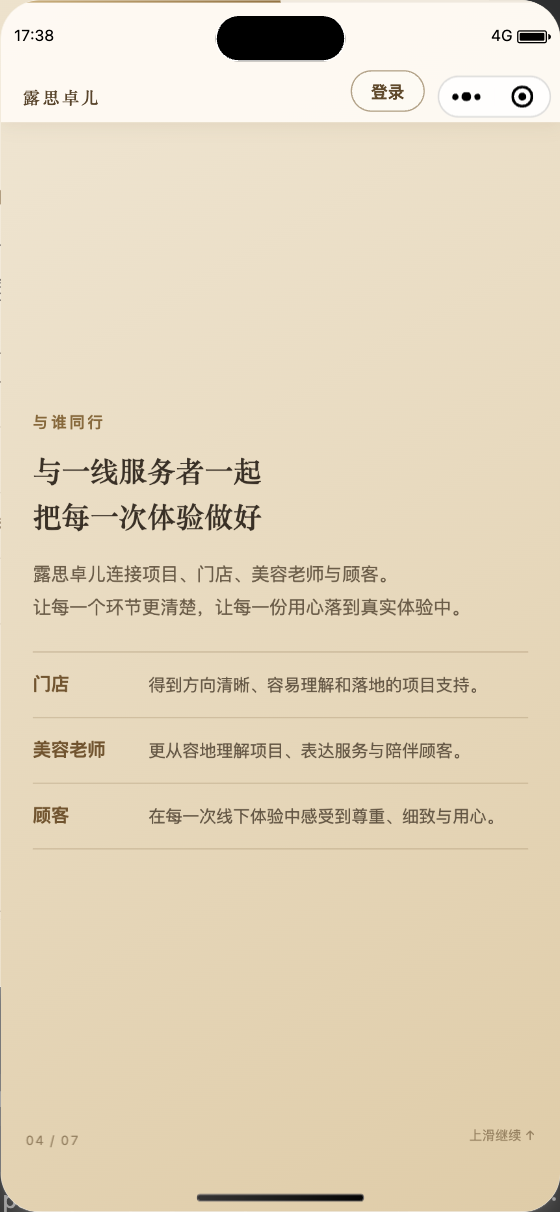
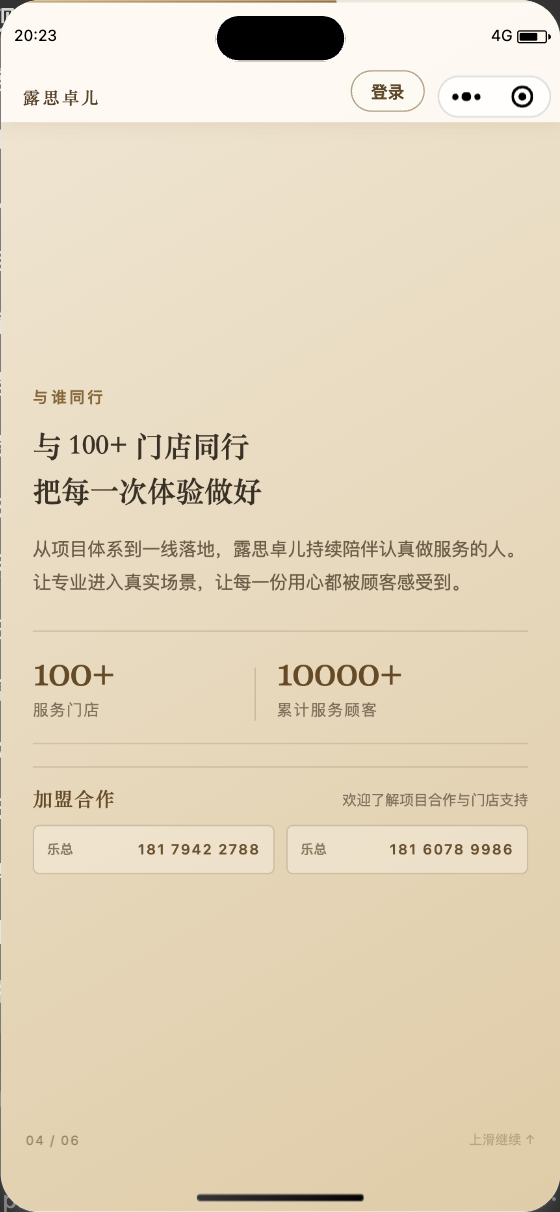
feat(miniprogram): refine company homepage interactions

diff --git a/tests/mini-program-company-intro-contract.test.js b/tests/mini-program-company-intro-contract.test.js
@@ -40,7 +40,8 @@ test("company introduction is a static public page focused on brand positioning"
     "public company content must not read business data or depend on a staff session");
   for (const phrase of [
     "广州露思卓儿", "科技有限公司", "生活美容领域", "我们是谁", "品牌理念",
-    "我们在做的事", "与谁同行", "品牌愿景", "把每一次体验做好"
+    "我们在做的事", "与谁同行", "品牌愿景", "把每一次体验做好",
+    "100+", "10000+", "服务门店", "累计服务顾客", "加盟合作"
   ]) assert.match(wxml, new RegExp(phrase));
   for (const project of ["海洋之蕴", "魔法柔肤", "露思康辰"]) assert.match(wxml, new RegExp(project));
   for (const phone of ["181 7942 2788", "181 6078 9986"]) assert.match(wxml, new RegExp(phone));
@@ -54,10 +55,17 @@ test("company introduction is a static public page focused on brand positioning"
   }
   assert.match(wxml, /class="company-topbar[^"]*"[\s\S]*class="topbar-login"[^>]*bindtap="openLogin"[\s\S]*>登录<\/button>/,
     "the separate staff login must be available from the upper-right company navigation");
+  assert.match(wxml, /class="hero-lead[^"]*"[\s\S]*class="hero-login[^"]*"[^>]*bindtap="openLogin"/,
+    "the opening page login must sit directly beneath the company introduction");
+  assert.match(wxml, /wx:if="\{\{currentSlide > 0\}\}" class="topbar-login"/,
+    "the top-right login must remain available after the opening page without crowding its logo composition");
   assert.match(wxml, /<swiper class="company-swiper" vertical="true"[\s\S]*bindchange="onSlideChange">/,
     "the company home must use reliable native vertical full-screen paging");
-  assert.equal((wxml.match(/<swiper-item>/g) || []).length, 7,
-    "each company chapter must occupy one of the seven complete vertical pages");
+  assert.equal((wxml.match(/<swiper-item>/g) || []).length, 6,
+    "each company chapter must occupy one of the six complete vertical pages");
+  assert.doesNotMatch(wxml, /class="company-slide contact-slide|>加盟咨询<\/text>/,
+    "the duplicated standalone contact page must stay retired after joining moves to the service-reach chapter");
+  assert.match(wxml, /\{\{slideNumbers\[currentSlide\]\}\} \/ 06/);
   assert.match(wxml, /class="value-flow"[\s\S]*class="value-row[^"]*"/,
     "brand values must read as one vertical narrative rather than a grid of cards");
   assert.doesNotMatch(wxml, /value-grid|value-card|approach-grid|focus-list|belief-card|vision-card/,
@@ -75,6 +83,8 @@ test("company introduction is a static public page focused on brand positioning"
     "the login control must be visible beside the native capsule without becoming a large primary action");
   assert.match(wxss, /\.hero-copy\s*\{[^}]*text-align:\s*center;/s,
     "the opening company statement must sit in the visual center instead of collecting at the bottom");
+  assert.match(wxss, /\.hero-login\s*\{[^}]*margin:\s*30rpx auto 0;[^}]*border-radius:\s*29rpx;/s,
+    "the opening login must remain a small centered action rather than a large primary panel");
   assert.match(wxml, /wx:if="\{\{currentSlide > 0\}\}" class="topbar-brand"/,
     "the first page must not repeat the brand name above the full company title");
   assert.match(wxml, /class="hero-title[^\"]*">广州露思卓儿科技有限公司<\/text>/);
@@ -96,6 +106,10 @@ test("company introduction is a static public page focused on brand positioning"
     "each settled page must animate headings, copy, and detail rows in a deliberate sequence");
   assert.match(wxss, /@media \(min-width: 700px\) \{/,
     "company introduction must cap typography and layout on tablets");
+  assert.match(wxml, /class="service-reach[^"]*"[\s\S]*100\+[\s\S]*10000\+[\s\S]*class="partnership-block[^"]*"[\s\S]*181 7942 2788[\s\S]*181 6078 9986/,
+    "confirmed service reach and both partnership contacts must form one continuous company chapter");
+  assert.doesNotMatch(js, /showActionSheet|openPartnership|joinOpen/,
+    "partnership contacts must be part of the page instead of a simulated popup or expandable overlay");
 });
 
 test("vertical chapter paging produces bounded active state and exact progress", () => {
@@ -106,10 +120,10 @@ test("vertical chapter paging produces bounded active state and exact progress",
   };
   definition.onSlideChange.call(instance, { detail: { current: 3 } });
   assert.deepEqual({ currentSlide: instance.data.currentSlide, reading: instance.data.reading, scrolled: instance.data.scrolled },
-    { currentSlide: 3, reading: 50, scrolled: true });
+    { currentSlide: 3, reading: 60, scrolled: true });
   definition.onSlideChange.call(instance, { detail: { current: 99 } });
   assert.deepEqual({ currentSlide: instance.data.currentSlide, reading: instance.data.reading },
-    { currentSlide: 6, reading: 100 });
+    { currentSlide: 5, reading: 100 });
 });
 
 test("company home opens the separate login and only allow-listed project introductions", () => {
@@ -129,6 +143,11 @@ test("company home opens the separate login and only allow-listed project introd
   }
   assert.equal(page.navigations.length, 4);
 
+  assert.deepEqual(page.phoneCalls, []);
+});
+
+test("inline partnership contacts only call the two approved numbers", () => {
+  const page = loadCompanyPage();
   for (const phone of ["18179422788", "18160789986"]) {
     page.definition.callPhone.call({}, { currentTarget: { dataset: { phone } } });
   }

diff --git a/miniprogram-app/miniprogram/pages/company-intro/index.js b/miniprogram-app/miniprogram/pages/company-intro/index.js
@@ -1,6 +1,20 @@
 const PROJECT_KEYS = Object.freeze(["ocean", "skin", "warmth"]);
 const CONTACT_PHONES = Object.freeze(["18179422788", "18160789986"]);
-const SLIDE_NUMBERS = Object.freeze(["01", "02", "03", "04", "05", "06", "07"]);
+const SLIDE_NUMBERS = Object.freeze(["01", "02", "03", "04", "05", "06"]);
+
+function dialContact(page, phoneNumber) {
+  if (!page || page._calling || !CONTACT_PHONES.includes(phoneNumber)) return;
+  page._calling = true;
+  wx.makePhoneCall({
+    phoneNumber,
+    fail: error => {
+      if (!String(error && error.errMsg || "").includes("cancel")) {
+        wx.showToast({ title: "暂时无法拨打，请稍后重试", icon: "none" });
+      }
+    },
+    complete: () => { page._calling = false; }
+  });
+}
 
 Page({
   data: {
@@ -56,19 +70,8 @@ Page({
     });
   },
   callPhone(event) {
-    if (this._calling) return;
     const phoneNumber = event && event.currentTarget && event.currentTarget.dataset.phone;
-    if (!CONTACT_PHONES.includes(phoneNumber)) return;
-    this._calling = true;
-    wx.makePhoneCall({
-      phoneNumber,
-      fail: error => {
-        if (!String(error && error.errMsg || "").includes("cancel")) {
-          wx.showToast({ title: "暂时无法拨打，请稍后重试", icon: "none" });
-        }
-      },
-      complete: () => { this._calling = false; }
-    });
+    dialContact(this, phoneNumber);
   },
   openProjectIntro(event) {
     if (this._navigating) return;

diff --git a/tests/mini-program-mobile-layout-contract.test.js b/tests/mini-program-mobile-layout-contract.test.js
@@ -45,8 +45,10 @@ test("mini-program login is concise and keeps phone authorization and password e
     "the exact four-character wordmark must remain native WXML text");
   assert.match(wxml, /class="login-card">[\s\S]*id="login-phone"[\s\S]*id="login-password"[\s\S]*id="login-submit"[\s\S]*id="login-phone-quick"[\s\S]*id="login-message"/,
     "all login controls and feedback must stay inside the bounded form panel");
-  assert.match(wxml, /class="login-home" bindtap="returnToCompany"[^>]*>‹ 返回公司主页<\/button>/,
+  assert.match(wxml, /class="login-home"[^>]*hover-class="login-home-hover"[^>]*catchtap="returnToCompany"[^>]*>‹ 返回公司主页<\/button>/,
     "the separate staff login page must return to the public company home");
+  assert.match(wxss, /\.login-home\s*\{[^}]*position:\s*relative;[^}]*z-index:\s*20;[^}]*min-height:\s*76rpx;[^}]*pointer-events:\s*auto;/s,
+    "the visible login return pill must own a foreground touch target");
   assert.doesNotMatch(wxml, /company-entry|project-entries|login-disclosure/,
     "the staff login page must not duplicate the public company or project home");
   assert.doesNotMatch(wxml, /brand-rule|login-divider|登录系统/,

diff --git a/tests/mini-program-project-intro-contract.test.js b/tests/mini-program-project-intro-contract.test.js
@@ -144,6 +144,10 @@ test("project footer keeps both destinations in one compact row without an exper
   assert.match(wxss, /\.footer-actions\s*\{[^}]*display:\s*grid;[^}]*grid-template-columns:/s);
   assert.match(wxss, /\.intro-footer \.next-project\s*\{[^}]*min-height:\s*76px;/s);
   assert.match(wxss, /\.intro-footer \.footer-back\s*\{[^}]*min-height:\s*76px;/s);
+  assert.match(wxss, /\.intro-footer\s*\{[^}]*position:\s*relative;[^}]*z-index:\s*30;/s,
+    "the real footer actions must sit above the sticky story layer for physical pointer input");
+  assert.match(wxml, /class="next-project"[^>]*hover-class="footer-action-hover"[^>]*bindtap="openNext"/);
+  assert.match(wxml, /class="footer-back"[^>]*hover-class="footer-action-hover"[^>]*bindtap="returnToCompany"/);
   assert.doesNotMatch(wxml, /继续探索露思卓儿/,
     "the footer must not add a third visual layer above the two real destinations");
   assert.doesNotMatch(wxml, /体验须知|intro-notice|notice-toggle/);

diff --git a/PROJECT_CONTEXT.md b/PROJECT_CONTEXT.md
@@ -471,13 +471,13 @@
 ## 22. 响应式 UI 最终要求
 
 - 2026-09-07 用户新增登录前项目介绍要求：沿用当前配色，在登录页提供三个紧凑项目入口，点开后可上下滚动阅读官网式介绍，提炼资料精华、重新绘制图解并加入随滚动变化的动画。早期独立交互提案保存在 `docs/design/project-intro-v1/`；用户随后明确要在微信开发者工具中看到预览，现已用原生 WXML／WXSS 接入 `pages/project-intro` 独立分包，不能继续将浏览器提案当作原生预览交付。两份 PDF 分别对应“露思康辰—E脉通”和“魔法柔肤—13D柔肤仪”；随后补充的 `Copy of 海洋之蕴.pptx` 对应“海洋之蕴—15D精雕仪”，第三项目待补充占位已退役。公开介绍只使用静态可公开内容，不能读取员工或客户业务数据、要求手机号／人脸授权，或放宽后台页面鉴权。保留既有真实登录与返回能力；登录页隐藏后不得被延迟完成的启动会话校验抢回首页，返回登录仍需遵循原有会话校验。图解随滚动展开，章节可直接点击；短屏使用普通文档流，减少动态效果偏好下图解静态展示，也提供手动关闭动效，没有强制观看动画或等待页。项目间切换替换当前介绍页，避免路由栈不断增长。体验须知按用户后续反馈收在页尾默认折叠入口，点击再展开；正文不堆叠“资料中／以说明书为准”等说明书式文字。必要禁忌和实际注意事项保留在须知内，不转成安全保证。随后用户要求拿掉“本页为概念介绍／图示不代表效果／不作效果保证”等类似字句，正文、图解下方和须知末尾统一删除这类泛化声明，不再重复添加。未核实的治疗功效、安全保证、认证／专利、价格、具体疗程及前后对比不直接搬入对客文案，艺术图不得冒充实际设备或临床效果。资料映射与验收见 `docs/design/project-intro-native/`。此前仅做原生预览的交付范围由用户随后“必须发布、预览版与体验版轮流试”的决定接续；开发版上传、体验版更新、审核与正式发布仍分别核实和记录。
-- 2026-09-15 用户最终决定把小程序启动页直接设为公开公司主页：打开小程序即进入 `pages/company-intro/index`，无需先点击公司介绍卡片；页面采用可连续上下滑动的长页叙事，顺序固定为“我们是谁 → 我们在做的事 → 与谁同行 → 品牌理念 → 品牌愿景 → 加盟咨询 → 项目延伸”。整体使用暖象牙白与浅香槟金的连续渐变，不以大面积深咖色制造突兀分区；重点标题主动安排均衡分行，避免行末只剩一两个字。首屏公司名称与主张必须落在视觉中心，不得沉到页面底部留下失衡的大段上方空白。全屏首屏、阅读进度、首屏轻量视差、背景呼吸、分段渐显及组内错峰入场共同形成克制但可感知的动态体验，不得退回逐个格子或卡片拼接的首页。主页重点介绍广州露思卓儿科技有限公司、生活美容定位、品牌理念、一线服务对象与品牌愿景，三个项目只作为页尾延伸入口。右上角在微信原生胶囊左侧保留一个清晰可见但不抢主视觉的中小型“登录”按钮，点击后进入独立 `pages/login/index` 表单。加盟咨询公开联系人均为乐总，电话为 `18179422788` 和 `18160789986`，仅允许这两个固定号码通过用户点击唤起系统拨号确认；旧的“公司介绍主卡＋三个项目卡＋页内折叠登录”方案已经退役。公司宣传正文不得解释“内部数据协同”“不提供在线交易”等系统边界，也不得引用无法核实的公众号旧宣传、医美转型口号、医疗级表述、规模／排名／认证或保证性功效。公开公司页在技术上仍保持静态，不读取业务数据、不依赖员工会话，也不改变任何后台鉴权。2026-09-15 补充的 `海洋之蕴.pptx`、`13D柔肤仪.pdf` 和 `露思康辰～E脉通.pdf` 仅用于核对页尾项目定位与既有项目介绍；资料中的治疗、疼痛、疾病、抗衰、专利认证、固定效果、价格和保证性表述不得搬入公开文案。公司主页进入主包后，为继续保留微信 2MB 主包限制下至少 200KB 的源码余量，登录后才使用的 `store-detail` 和 `teacher-detail` 调整为普通分包；路由、会话、全局样式和权限契约不变。公开资料核对和页面验收边界见 `docs/design/company-intro-native/validation.md`。
-- 2026-09-15 用户随后把上述公司连续长页改为最终的原生竖向全屏分页：每次上滑完整切换一页，停稳时只显示当前页，不允许上下两页跨页露出；共七页，依次为首屏、我们是谁、我们在做的事、与谁同行、品牌理念／品牌愿景、加盟咨询、项目延伸。顶部阅读进度、右侧页码和圆点随页更新，每页标题、正文和细项在切换完成后错峰上移渐显；减少动态效果偏好下直接显示全部静态内容。第一页复用现有 `lusizhuoer-login-bg-v4.jpg` 作为全屏背景，金色水滴／侧脸 Logo 必须完整可见并与登录页保持同一品牌版本，退役抽象圆环；公司名称和品牌主张位于视觉中心，先前“公司主页”四字装饰标签已经删除。右上角登录、两组加盟电话、公开文案边界、项目入口及内部权限规则不变。本条取代上一条中的“连续长页任意停留、首屏视差、背景呼吸和公司主页标签”描述。
+- 2026-09-15 用户最终决定把小程序启动页直接设为公开公司主页：打开小程序即进入 `pages/company-intro/index`，无需先点击公司介绍卡片；页面采用六个竖向全屏分页，顺序固定为“首屏 → 我们是谁 → 我们在做的事 → 与谁同行 → 品牌理念／品牌愿景 → 项目延伸”。整体使用暖象牙白与浅香槟金的连续渐变，不以大面积深咖色制造突兀分区；重点标题主动安排均衡分行，避免行末只剩一两个字。首屏公司名称与主张必须落在视觉中心，不得沉到页面底部留下失衡的大段上方空白。全屏首屏、阅读进度、首屏轻量视差、背景呼吸、分段渐显及组内错峰入场共同形成克制但可感知的动态体验，不得退回逐个格子或卡片拼接的首页。主页重点介绍广州露思卓儿科技有限公司、生活美容定位、品牌理念、一线服务对象与品牌愿景，三个项目只作为页尾延伸入口。首屏“登录”改为公司介绍正文下方居中的小型描边按钮，不再与微信胶囊挤在右上角；滑到第二页以后，胶囊左侧继续显示中小型登录入口，二者均进入独立 `pages/login/index` 表单。登录页“返回公司主页”必须使用独立前景触控层和完整胶囊点击区，不能被背景或表单层拦截。用户确认公司已服务 `100+` 门店、累计服务 `10000+` 顾客，该规模只在“与谁同行”页作克制的事实展示；“加盟合作”说明与两个加盟联系方式直接合并在该页，模拟电话弹窗、展开收起层和额外跳页均已退役。原独立“加盟咨询”第六页因与这里重复而退役，项目延伸顺延为第六页。加盟咨询公开联系人均为乐总，电话为 `18179422788` 和 `18160789986`，仅允许这两个固定号码通过用户点击唤起系统拨号确认；旧的“公司介绍主卡＋三个项目卡＋页内折叠登录”方案已经退役。公司宣传正文不得解释“内部数据协同”“不提供在线交易”等系统边界，也不得引用无法核实的公众号旧宣传、医美转型口号、医疗级表述、其他规模／排名／认证或保证性功效。公开公司页在技术上仍保持静态，不读取业务数据、不依赖员工会话，也不改变任何后台鉴权。2026-09-15 补充的 `海洋之蕴.pptx`、`13D柔肤仪.pdf` 和 `露思康辰～E脉通.pdf` 仅用于核对页尾项目定位与既有项目介绍；资料中的治疗、疼痛、疾病、抗衰、专利认证、固定效果、价格和保证性表述不得搬入公开文案。公司主页进入主包后，为继续保留微信 2MB 主包限制下至少 200KB 的源码余量，登录后才使用的 `store-detail` 和 `teacher-detail` 调整为普通分包；路由、会话、全局样式和权限契约不变。公开资料核对和页面验收边界见 `docs/design/company-intro-native/validation.md`。
+- 2026-09-15 历史全屏分页方案（已由上一条最新六页决定取代）：该方案把连续长页改为原生竖向全屏分页，要求每次上滑完整切换一页、停稳时不跨页露出，并使用顶部阅读进度、分页文字错峰动画和现有 `lusizhuoer-login-bg-v4.jpg` 全屏背景；金色水滴／侧脸 Logo、视觉居中的公司名称与品牌主张、删除“公司主页”装饰标签等视觉决定继续有效。该方案原定的七页结构、独立“加盟咨询”页、右侧页码／圆点和右上角始终显示登录均已退役，现以六页结构、首屏正文下方登录、第二页起右上登录及底部页码为准。
 - 2026-09-15 首屏视觉复核进一步确定：第一页不得在左上角重复“露思卓儿”，公司全称与“让专业有温度，让美好被认真对待”分别保持一行并在 Logo 下方形成单一视觉轴；页码固定在底部左侧，上滑提示固定在底部右侧，原先右侧页码／圆点方案退役。第二页起左上角才显示轻量品牌名，右上角登录始终保留。本条取代上一条中的“右侧页码和圆点”描述。
 - 2026-09-07 用户补充：项目介绍不使用英文缩写或英文装饰标题。海洋之蕴用“超声／射频／生物电”作为紧凑导航，正文写出“微聚焦超声／聚焦射频／生物电射频”；三个项目章节标题、首屏副标题、正文和下一项目入口均使用中文。设备型号的英文字母不自行扩写成未经资料证实的含义，公开副标题使用“精雕仪／柔肤仪／电磁热护理”等中文描述；原始型号与资料对应关系只在内部溯源文档保留，不更改三个业务项目名称。旧的英文缩写与英文装饰标签展示已退役。用户随后要求内容更完整：补充项目特点、三段护理／技术说明及具体体验关注点，以现有资料为依据，不只延长品牌标语；页尾“返回登录”增大至清晰的全宽按钮，字号 17px、字重 600、最小高度 52px。补充后的中文需重新检查窄屏换行与章节导航边界。用户强调文案合理、读起来顺畅：交付前逐段通读，使用自然中文解释项目，去掉重复空泛措辞与不合语义的比喻，不能只翻译缩写或机械加长文字。
 - 2026-09-07 用户指出介绍文案像在教育顾客：三个项目的正文改用产品介绍口吻，讲清项目定位、资料中有依据的技术构成、护理重点与体验特点。旧的“了解需求／确认方案／持续沟通”、反复要求顾客说明情况或反馈感受的服务指导叙事已退役，不得再用提醒填充介绍篇幅。海洋之蕴突出分层技术与轮廓／肤质侧重；魔法柔肤突出纳秒光、多种护理模式与清促建理念；露思康辰突出电磁热、可调温手柄与六项体验细节。实际必要注意事项继续放在页尾默认折叠的体验须知中。保留完整自然中文，不将资料里的治疗、安全、认证、效果比例或固定疗程承诺写成已核实产品优势。
 - 2026-09-15 用户进一步明确三个公开项目的核心定位并要求统一为合规的生活美容表达。三个首屏分类固定以“生活美容”开头，并直接说明差异：海洋之蕴以轮廓为主线，兼顾肤质与“肤龄观感”；魔法柔肤以肤质、肤色及肌肤外观状态为主线；露思康辰以温度管理和身体舒适体验为主线。公开文案不得把“抗衰／逆龄”“解决皮肤问题”“解决健康／疼痛痛症”作为效果承诺，不得宣称疾病治疗、止痛、免疫、经络或保证性结果。“体温管理”容易被理解为对核心体温或健康功能的干预，公开名称统一收敛为“温度管理”；露思康辰的疼痛、肿胀、麻木等内容只用于折叠体验须知中的就医提示，明确项目不能替代诊疗。原资料中的技术名称只用于客观说明护理组成，不由此推导医学作用。此规则取代此前偏品牌口号、需要读完整页才能分辨项目核心优势的写法；不改变三个项目名称、公开路由、图片、动效、登录或后台权限。
-- 2026-09-15 用户随后要求彻底移除三个公开项目页尾的“体验须知”入口及其折叠内容；疼痛、肿胀、麻木、禁忌、就医提示等文字不再出现在公开项目页面或公开项目数据中，项目正文仍不得因此增加治疗、安全或保证性承诺。页尾只保留“下一个项目”和“返回公司主页”两个真实跳转，并合并为同一条横向轻量导航，使用共同上下分隔线和紧凑等高按钮；“继续探索露思卓儿”页尾装饰标题、大号返回卡与第三层折叠模块全部退役，末段正文和导航之间的空白同步收紧。本条取代第 473、478、479 条中保留折叠体验须知和全宽大号返回按钮的描述。
+- 2026-09-15 用户随后要求彻底移除三个公开项目页尾的“体验须知”入口及其折叠内容；疼痛、肿胀、麻木、禁忌、就医提示等文字不再出现在公开项目页面或公开项目数据中，项目正文仍不得因此增加治疗、安全或保证性承诺。页尾只保留“下一个项目”和“返回公司主页”两个真实跳转，并合并为同一条横向轻量导航，使用共同上下分隔线和紧凑等高按钮；页尾及两个按钮必须显式位于粘性章节动画层之上，不能出现看得到却被透明层拦截触控的状态。“继续探索露思卓儿”页尾装饰标题、大号返回卡与第三层折叠模块全部退役，末段正文和导航之间的空白同步收紧。本条取代第 473、478、479 条中保留折叠体验须知和全宽大号返回按钮的描述。
 - 当前已上传版本的小程序登录页不显示人物照、联合人物图或“海洋之韵”文字。此前“禁止额外宣传文案”的一概限制由上述 2026-09-07 项目介绍决定取代；原登录结构现由上述原生项目介绍入口方案接续；最后确认上传的旧开发版状态单独记录。背景保留露思卓儿金色水滴／侧脸 Logo 视觉语言的暖象牙白、浅香槟金竖屏品牌图，继续使用清晰可辨的标志轮廓、香槟金色和边缘流动弧线，不嵌入人物与生成文字；精确品牌名始终由 WXML 原生渲染，整体颜色不能压得过深。2026-09-05 用户确认保留当前配色并美化实际小程序：登录采用中等圆角的暖白表单面板，品牌与简洁的“欢迎回来”提示左对齐，输入框、主登录及微信手机号次按钮全宽等高、左右对齐，弱化边框与阴影并提高标签、输入和按钮字号。旧的顶部夸张弧形框、品牌强制居中和窄胶囊按钮已经退役。象牙白、香槟金、深咖色值保持不变，不另换蓝色或绿色品牌主题。同日用户反馈背景像素模糊，允许在原配色和可辨认的水滴／侧脸标志基础上精修背景：现采用 v4 图，减少细碎金丝与模糊高光，保留少量清晰的边缘曲线和中心留白；旧的“原背景文件不得替换”约定已退役。生成图实际为 852 × 1846 像素，不将纹理精简宣传为分辨率提升。
 - 同日用户追加美容品牌动效要求：登录品牌区使用现有背景内的水滴／侧脸标志，与原生“露思卓儿”文字并列；通过独立图片视窗复用当前 v4 背景内的标志，不新增不同造型的 Logo。用户随后明确反馈旧动画效果差，因此旧的背景缩放、扫光、圆框亮边和表单逐项淡入、约 3.7 秒收尾的设计已退役。当前使用一次性品牌揭示：两个等尺寸反向移动的裁切视窗从下向上露出标志，使原图像素停在原位；180 毫秒后品牌文字从固定文字视窗底部升起，整段约 1.14 秒结束。背景、卡片、提示、输入框和两种登录按钮始终保持静止与完整可见，不循环、不加全屏遮挡或等待页、不延迟会话检查与登录操作。只使用 WXSS 位移动画，终态恢复 `transform: none`；减少动态效果偏好下直接显示静态终态。不引入模糊滤镜、视频、第三方动效依赖或 JavaScript 动画计时器，颜色和既有登录逻辑保持不变。
 - 2026-09-08 按平台审核修改指引，手机号授权入口的对客名称固定为“手机号快捷登录”；登录页及该授权链路的加载、取消、权限和失败提示均不得出现“微信”字样、微信官方 Logo 或其他容易被理解为腾讯官方入口的元素。此前要求保留“微信手机号登录”原文的规则已退役。该按钮仍作为主登录按钮正下方的完整圆角次按钮，文字必须在按钮内横向、纵向严格居中，不加入装饰分隔线；平台规定的 `open-type="getPhoneNumber"` 能力、认证 SDK、UID 核对、服务端权限回读及账号唯一性规则保持不变。密码显隐仍使用垂直居中的眼睛图标，“修改密码”仍位于密码输入框下方右侧；小程序改密继续复用网页版短信验证、`shouldCreateUser: false`、60 秒持久化防重发、严格认证响应校验、当前 UID `changeOwnPassword` 和退出临时会话规则。改密页“保存新密码”文字必须双向居中。

diff --git a/docs/design/company-intro-native/validation.md b/docs/design/company-intro-native/validation.md
@@ -5,11 +5,12 @@
 ## 需求落点
 
 - 小程序首个页面为原生 `pages/company-intro/index`；打开小程序直接看到公司主页，不再经过公司介绍卡片。
-- 公司主页使用原生竖向全屏分页；每次上滑完整进入下一页，停稳时只显示当前一页，不让上下两页跨页露出。
-- 七页顺序为“首屏 → 我们是谁 → 我们在做的事 → 与谁同行 → 品牌理念／品牌愿景 → 加盟咨询 → 项目延伸”，让公司身份、行动、服务对象、愿景和合作入口逐层展开。
-- 第一页将现有 v4 金色水滴／侧脸 LOGO 原图作为全屏背景，公司全称与品牌主张分别保持一行并沿同一中轴排布；首屏不再重复左上角品牌名，抽象圆环和“公司主页”四字装饰标签已经移除。
+- 公司主页使用六个原生竖向全屏分页；每次上滑完整进入下一页，停稳时只显示当前一页，不让上下两页跨页露出。
+- 六页顺序为“首屏 → 我们是谁 → 我们在做的事 → 与谁同行 → 品牌理念／品牌愿景 → 项目延伸”，让公司身份、行动、服务规模、愿景和项目入口逐层展开。“与谁同行”使用用户确认的 `100+` 服务门店和 `10000+` 累计服务顾客，不增加排名、行业领先等推导。
+- 第一页将现有 v4 金色水滴／侧脸 LOGO 原图作为全屏背景，公司全称与品牌主张分别保持一行并沿同一中轴排布；首屏不再重复左上角品牌名，抽象圆环和“公司主页”四字装饰标签已经移除。首屏登录放在公司介绍文字下方，使用居中小型描边按钮，不与右上微信胶囊拥挤。
 - 页面使用同色系连续渐变和顶部阅读进度；页码固定在底部左侧，上滑提示固定在底部右侧，不再用右侧圆点切断画面。每页停稳后，标题、正文和细项依次上移渐显；降低动态效果偏好下直接显示静态完整内容。
-- 右上角“登录”进入独立 `pages/login/index`；登录页可返回公司主页，并完整保留密码登录、手机号快捷登录和修改密码。
+- 第二页起，右上角“登录”继续进入独立 `pages/login/index`；登录页可返回公司主页，并完整保留密码登录、手机号快捷登录和修改密码。
+- “加盟合作”说明和两个乐总电话直接合并在“与谁同行”页，不使用模拟电话弹窗、展开收起层或额外跳页；原独立加盟咨询页因与这里重复已经删除，项目延伸顺延为第六页。
 - 海洋之蕴、魔法柔肤、露思康辰只在公司主页页尾作为延伸入口，不替代公司介绍主体。
 - 旧的“公司介绍主卡＋三个项目卡＋页内折叠内部登录”方案已经退役。
 - 本轮只修改微信小程序和规则／验证文档；未修改 Web、云函数、数据库或线上业务数据。
@@ -18,7 +19,7 @@
 
 2026-09-15 对“广州露思卓儿”进行了公开检索：搜狗微信的公众号搜索没有返回可核实的官方认证账号或公司简介原文；精确文章搜索只出现第三方机构在 2022 年发布的旧“医美赛道转型”摘要，不能作为当前公司定位的权威来源，因此未写入小程序。广州市市场监督管理局公开的历史化妆品备案附件可以核对到“广州露思卓儿科技有限公司”主体名称，但该记录不能证明当前规模、资质荣誉或宣传功效，本页也未据此扩写这些内容。
 
-公司主页正文仅采用用户已经确认的事实：公司专注生活美容领域，围绕线下服务场景陪伴门店与美容老师，并重视专业表达、服务体验和长期信任。主页不把三个项目重复写成大段公司介绍，只在页尾概括其方向。
+公司主页正文仅采用用户已经确认的事实：公司专注生活美容领域，围绕线下服务场景陪伴门店与美容老师，并重视专业表达、服务体验和长期信任；截至本轮确认，已服务超过 `100` 家门店、累计服务超过 `10000` 名顾客。主页不把三个项目重复写成大段公司介绍，只在页尾概括其方向。
 
 本轮再次逐页检查用户提供的三份项目资料：
 
@@ -41,14 +42,16 @@
 - 公司页为静态公开页面，不导入登录、业务 API 或数据服务；这是技术权限边界，不在公司宣传正文中展开说明。
 - 公司页项目跳转只接受 `ocean`、`skin`、`warmth` 三个固定键，不能拼接到后台路由。
 - 加盟咨询只允许用户点击后拨打乐总的 `18179422788` 或 `18160789986`，其他传入号码不会调用系统拨号。
+- “与谁同行”页直接显示上述两个固定号码；号码按钮只接受这两个固定值，不存在模拟选择弹层、展开状态或分页切换。
 - 公司主页不会因本地已有会话自动跳进内部工作台；用户点击右上角登录后，独立登录页继续执行原有权威会话校验。
 - 登录页隐藏或离开后，延迟完成的启动会话校验失效，不会把用户从公司／项目公开页抢回内部首页。
+- 登录页顶部返回胶囊使用独立前景层、完整按钮触控区和按压反馈；无论公司页是否仍在路由栈中，均返回公开公司主页。
 - 本轮没有修改总部、门店、老师角色权限、认证方式或后台接口。
 - 公司主页进入主包后，将登录后才使用的门店详情与老师详情调整为普通分包，主包继续保留至少 200KB 的源码余量；页面路由、会话和全局样式契约不变。
 
 ## 布局与动态检查
 
-- 手机：七个原生分页均为完整视窗高度并裁切相邻页。首屏使用 v4 LOGO 背景，公司全称与主张各占一行并居中，首屏左上角不重复品牌名；右上角登录固定在微信胶囊左侧，尺寸清晰可见但不做大按钮。重点标题和长正文使用按语义设计的均衡分行，避免行末只剩一两个字。
+- 手机：六个原生分页均为完整视窗高度并裁切相邻页。首屏使用 v4 LOGO 背景，公司全称与主张各占一行并居中，首屏左上角不重复品牌名；登录小按钮承接在正文下方，第二页起再固定到微信胶囊左侧。“与谁同行”的两组数字、加盟说明和两个联系方式使用同一组分隔线与浅色按钮直接排在正文中，不形成悬浮弹层。重点标题和长正文使用按语义设计的均衡分行，避免行末只剩一两个字。
 - 平板：主体宽度和字号设置物理像素上限，保留留白与长文行宽，不把手机 `rpx` 页面整体放大。
 - 动态：切页时原生分页动画负责整页移动；切换完成后当前页文字按五级延时上移渐显。顶部进度与底部页码精确对应当前页，右下提示只承担上滑引导，不阻塞任何点击。
 - 兼容：短屏断点收紧字号、间距和列表行高；用户偏好减少动态效果时，所有正文直接完整显示。
@@ -57,10 +60,11 @@
 
 - `node --test tests/*.test.js`：329 项全部通过，0 失败。
 - 页面脚本语法检查和 `git diff --check`：通过。
-- 微信开发者工具 `36.6.0`、基础库 `3.17.1`、iPhone 15 Pro Max `430 × 932` 模拟器：七个整页均完成原生渲染检查，停稳时未露出相邻页，正文和交互未被顶部胶囊或底部安全区遮挡；运行期异常为 0。
+- 微信开发者工具 `36.6.0`、基础库 `3.17.1`、iPhone 15 Pro Max `430 × 932` 模拟器：六个整页均完成原生渲染检查，停稳时未露出相邻页，正文和交互未被顶部胶囊或底部安全区遮挡；运行期异常为 0。
 - 右上角登录完成真实点击检查，正确进入独立 `pages/login/index`。
+- 首屏正文下方登录入口完成原生位置检查；第 4 页直接显示“加盟合作”与两个加盟联系方式，不显示模拟电话选择弹窗，也不再自动翻到第 6 页。
 - 首屏：[LOGO 背景与单行主标题](screenshots/company-home-top-430.png)
 - 公司叙事：[我们是谁](screenshots/company-home-about-430.png)、[我们在做的事](screenshots/company-home-focus-430.png)、[与谁同行](screenshots/company-home-service-430.png)、[品牌理念／愿景](screenshots/company-home-belief-430.png)
-- 对外入口：[加盟咨询](screenshots/company-home-contact-430.png)、[项目延伸](screenshots/company-home-projects-430.png)、[独立登录](screenshots/login-430.png)
+- 对外入口：[服务规模与加盟信息](screenshots/company-home-service-430.png)、[项目延伸](screenshots/company-home-projects-430.png)、[独立登录](screenshots/login-430.png)
 
 当前最后确认上传的开发版仍为 `0.2.73`；本轮没有上传微信开发版、提交审核或正式发布。

diff --git a/README.md b/README.md
@@ -1,8 +1,8 @@
 # 门店业务与总部数据系统
 
-2026-09-15 **小程序启动页改为竖向全屏公司主页（源码待上传）**：打开小程序即进入公司主页，七页依次为首屏、我们是谁、我们在做的事、与谁同行、品牌理念／愿景、加盟咨询和项目延伸；每次上滑完整切页，停稳时不跨页显示。第一页把现有金色水滴／侧脸 LOGO 原图作为全屏背景，公司全称与品牌主张各自保持一行并居中；首屏不重复左上品牌名，“公司主页”装饰字和抽象圆环已删除。暖象牙白与浅香槟金贯穿各页，顶部进度随页更新，页码与上滑提示分列底部两侧，标题、正文与细项按顺序上移渐显。右上角登录进入独立内部账号表单；加盟咨询可点击拨打乐总 `18179422788`／`18160789986`；三个项目仅在末页延伸。旧的自由长页、卡片拼接、深色硬切、右侧圆点和页内折叠登录已退役。密码登录、手机号快捷登录、修改密码、启动会话校验和后台权限均保留。验证边界见[公司主页与独立登录记录](docs/design/company-intro-native/validation.md)。当前最后确认上传的开发版仍为 `0.2.73`；本轮源码尚未上传、未提交审核或正式发布。
+2026-09-15 **小程序启动页改为六个竖向全屏公司主页分页（源码待上传）**：打开小程序即进入公司主页，六页依次为首屏、我们是谁、我们在做的事、与谁同行、品牌理念／愿景和项目延伸；每次上滑完整切页，停稳时不跨页显示。第一页把现有金色水滴／侧脸 LOGO 原图作为全屏背景，公司全称与品牌主张各自保持一行并居中；首屏登录移到公司介绍文字下方的居中小按钮，第二页起仍在右上角保留登录入口。“与谁同行”页按用户确认展示 `100+` 服务门店与 `10000+` 累计服务顾客，并把“加盟合作”说明及两个乐总电话直接合并在同一页；不使用模拟电话弹窗、展开层或额外跳页。原独立加盟咨询页因内容重复已删除，项目延伸现为第六页。登录页返回按钮和项目页尾导航均提升为独立前景触控层，真实点击区不再被背景或粘性动画遮挡。暖象牙白与浅香槟金贯穿各页，标题、正文与细项按顺序上移渐显；旧的自由长页、卡片拼接、深色硬切、右侧圆点和页内折叠登录已退役。密码登录、手机号快捷登录、修改密码、启动会话校验和后台权限均保留。验证边界见[公司主页与独立登录记录](docs/design/company-intro-native/validation.md)。当前最后确认上传的开发版仍为 `0.2.73`；本轮源码尚未上传、未提交审核或正式发布。
 
-2026-09-15 **登录前项目介绍已调整为生活美容表达并精简页尾（源码待上传）**：三个项目首屏现在直接区分核心方向——海洋之蕴聚焦轮廓与肤龄观感，魔法柔肤聚焦肤质与肤色观感，露思康辰聚焦温度管理与身体舒适体验。公开正文不使用“抗衰／逆龄”“解决皮肤问题”“解决健康／疼痛痛症”或保证性功效；“体温管理”收敛为“温度管理”，疼痛、禁忌及就医提示不再放入公开页。页尾“体验须知”、折叠逻辑和装饰标题已删除，“下一个项目”和“返回公司主页”合并为同一条横向轻量导航，末段留白同步收紧。原图片、动效、项目路由、登录和后台权限不变，检查边界见[生活美容文案验证](docs/design/project-intro-native/validation-life-beauty-copy.md)。当前最后确认上传的开发版仍为 `0.2.73`，本轮源码尚未上传、未提交审核或正式发布。
+2026-09-15 **登录前项目介绍已调整为生活美容表达并精简页尾（源码待上传）**：三个项目首屏现在直接区分核心方向——海洋之蕴聚焦轮廓与肤龄观感，魔法柔肤聚焦肤质与肤色观感，露思康辰聚焦温度管理与身体舒适体验。公开正文不使用“抗衰／逆龄”“解决皮肤问题”“解决健康／疼痛痛症”或保证性功效；“体温管理”收敛为“温度管理”，疼痛、禁忌及就医提示不再放入公开页。页尾“体验须知”、折叠逻辑和装饰标题已删除，“下一个项目”和“返回公司主页”合并为同一条横向轻量导航，末段留白同步收紧；导航已提到粘性章节层之上，两个区域均完成真实鼠标点击验证，不再被透明动画层拦截。原图片、动效、项目路由、登录和后台权限不变，检查边界见[生活美容文案验证](docs/design/project-intro-native/validation-life-beauty-copy.md)。当前最后确认上传的开发版仍为 `0.2.73`，本轮源码尚未上传、未提交审核或正式发布。
 
 2026-09-08 **`0.2.73` 手机号快捷登录审核整改已上传**：按平台审核指引，原“微信手机号登录”入口统一改为“手机号快捷登录”，该授权链路的加载、取消、权限和失败提示同步移除“微信”字样；登录页未使用微信官方 Logo。`getPhoneNumber`、CloudBase 认证、UID 核对和服务端权限回读保持不变。324 项测试及原生登录页截图检查通过，见[审核整改记录](docs/reviews/2026-09-08-phone-quick-login-review-fix.md)。官方 CLI 五分钟超时后后台继续运行，悉尼时间 15:04:17 返回 `progressSuccess`，确认 `0.2.73` 上传成功；尚未重新提交平台审核或正式发布，详见[发布记录](miniprogram-app/releases/0.2.73.md)。
 

diff --git a/miniprogram-app/README.md b/miniprogram-app/README.md
@@ -1,8 +1,8 @@
 # 露思卓儿移动业务小程序
 
-2026-09-15 **小程序启动页改为竖向全屏公司主页（源码待上传）**：打开小程序即进入公司主页，七页依次为首屏、我们是谁、我们在做的事、与谁同行、品牌理念／愿景、加盟咨询和项目延伸；每次上滑完整切页，停稳时不跨页显示。第一页把现有金色水滴／侧脸 LOGO 原图作为全屏背景，公司全称与品牌主张各自保持一行并居中；首屏不重复左上品牌名，“公司主页”装饰字和抽象圆环已删除。暖象牙白与浅香槟金贯穿各页，顶部进度随页更新，页码与上滑提示分列底部两侧，标题、正文与细项按顺序上移渐显。右上角登录进入独立内部账号表单；加盟咨询可点击拨打乐总 `18179422788`／`18160789986`；三个项目仅在末页延伸。旧的自由长页、卡片拼接、深色硬切、右侧圆点和页内折叠登录已退役。密码登录、手机号快捷登录、修改密码、启动会话校验和后台权限均保留。验证边界见[公司主页与独立登录记录](../docs/design/company-intro-native/validation.md)。当前最后确认上传的开发版仍为 `0.2.73`；本轮源码尚未上传、未提交审核或正式发布。
+2026-09-15 **小程序启动页改为六个竖向全屏公司主页分页（源码待上传）**：打开小程序即进入公司主页，六页依次为首屏、我们是谁、我们在做的事、与谁同行、品牌理念／愿景和项目延伸；每次上滑完整切页，停稳时不跨页显示。第一页把现有金色水滴／侧脸 LOGO 原图作为全屏背景，公司全称与品牌主张各自保持一行并居中；首屏登录移到公司介绍文字下方的居中小按钮，第二页起仍在右上角保留登录入口。“与谁同行”页按用户确认展示 `100+` 服务门店与 `10000+` 累计服务顾客，并把“加盟合作”说明及两个乐总电话直接合并在同一页；不使用模拟电话弹窗、展开层或额外跳页。原独立加盟咨询页因内容重复已删除，项目延伸现为第六页。登录页返回按钮和项目页尾导航均提升为独立前景触控层，真实点击区不再被背景或粘性动画遮挡。暖象牙白与浅香槟金贯穿各页，标题、正文与细项按顺序上移渐显；旧的自由长页、卡片拼接、深色硬切、右侧圆点和页内折叠登录已退役。密码登录、手机号快捷登录、修改密码、启动会话校验和后台权限均保留。验证边界见[公司主页与独立登录记录](../docs/design/company-intro-native/validation.md)。当前最后确认上传的开发版仍为 `0.2.73`；本轮源码尚未上传、未提交审核或正式发布。
 
-2026-09-15 **登录前项目介绍已调整为生活美容表达并精简页尾（源码待上传）**：三个项目首屏直接显示不同核心方向——海洋之蕴为轮廓与肤龄观感，魔法柔肤为肤质与肤色观感，露思康辰为温度管理与身体舒适体验。公开正文不使用“抗衰／逆龄”“解决皮肤问题”“解决健康／疼痛痛症”或保证性功效；“体温管理”改为“温度管理”，疼痛、禁忌及就医提示不再进入公开页。页尾“体验须知”、折叠逻辑和装饰标题已删除，“下一个项目”和“返回公司主页”合并为同一条横向轻量导航，末段留白同步收紧。原图片、动效、项目路由、登录和后台权限不变，检查边界见[生活美容文案验证](../docs/design/project-intro-native/validation-life-beauty-copy.md)。当前最后确认上传的开发版仍为 `0.2.73`，本轮源码尚未上传、未提交审核或正式发布。
+2026-09-15 **登录前项目介绍已调整为生活美容表达并精简页尾（源码待上传）**：三个项目首屏直接显示不同核心方向——海洋之蕴为轮廓与肤龄观感，魔法柔肤为肤质与肤色观感，露思康辰为温度管理与身体舒适体验。公开正文不使用“抗衰／逆龄”“解决皮肤问题”“解决健康／疼痛痛症”或保证性功效；“体温管理”改为“温度管理”，疼痛、禁忌及就医提示不再进入公开页。页尾“体验须知”、折叠逻辑和装饰标题已删除，“下一个项目”和“返回公司主页”合并为同一条横向轻量导航，末段留白同步收紧；导航已提到粘性章节层之上，两个区域均完成真实鼠标点击验证，不再被透明动画层拦截。原图片、动效、项目路由、登录和后台权限不变，检查边界见[生活美容文案验证](../docs/design/project-intro-native/validation-life-beauty-copy.md)。当前最后确认上传的开发版仍为 `0.2.73`，本轮源码尚未上传、未提交审核或正式发布。
 
 2026-09-08 **`0.2.73` 手机号快捷登录审核整改已上传**：按平台审核指引，原“微信手机号登录”入口统一改为“手机号快捷登录”，该授权链路的加载、取消、权限和失败提示同步移除“微信”字样；登录页未使用微信官方 Logo。平台要求的 `getPhoneNumber`、CloudBase 认证、UID 核对和服务端权限回读保持不变。324 项测试及原生登录页截图检查通过，见[审核整改记录](../docs/reviews/2026-09-08-phone-quick-login-review-fix.md)。官方 CLI 五分钟超时后后台继续运行，悉尼时间 15:04:17 返回 `progressSuccess`，确认 `0.2.73` 上传成功；尚未重新提交平台审核或正式发布，详见[发布记录](releases/0.2.73.md)。
 

diff --git a/docs/design/project-intro-native/validation.md b/docs/design/project-intro-native/validation.md
@@ -4,8 +4,8 @@
 
 - “体验须知”入口、公开须知数据、展开状态和滚动逻辑均已删除，不是仅用样式隐藏。
 - “下一个项目”和“返回公司主页”合并为一条横向等高导航；额外装饰标题、全宽大按钮及末段过量留白已经退役。
-- `node --test tests/*.test.js`：**328 项通过，0 失败**；页面脚本语法检查与 `git diff --check` 通过。
-- 微信开发者工具 `36.6.0`、基础库 `3.17.1`、iPhone 15 Pro Max `430 × 932` 模拟器检查：页面滚动到 100%，底部两个目标完整显示，运行期异常为 0。截图见[精简后的项目页尾](footer-compact-430.png)。
+- `node --test tests/*.test.js`：**329 项通过，0 失败**；页面脚本语法检查与 `git diff --check` 通过。
+- 微信开发者工具 `36.6.0`、基础库 `3.17.1`、iPhone 15 Pro Max `430 × 932` 模拟器检查：页面滚动到 100%，底部两个目标完整显示，运行期异常为 0。后续复核发现程序化事件调用未覆盖真实命中层，粘性章节层会拦截物理鼠标触控；页尾与两个按钮现已明确提升到前景层。真实鼠标点击左侧会切到“魔法柔肤”，点击右侧会返回公司首屏，两边均通过。截图见[精简后的项目页尾](footer-compact-430.png)。
 - 当前最后确认上传的开发版仍为 `0.2.73`；本轮只完成源码与模拟器检查，尚未上传微信开发版、提交审核或正式发布。
 
 以下内容保留为 2026-09-07 原始预览与发布历史，其中“须知折叠”及旧返回按钮描述已由上述最新复核明确取代。
